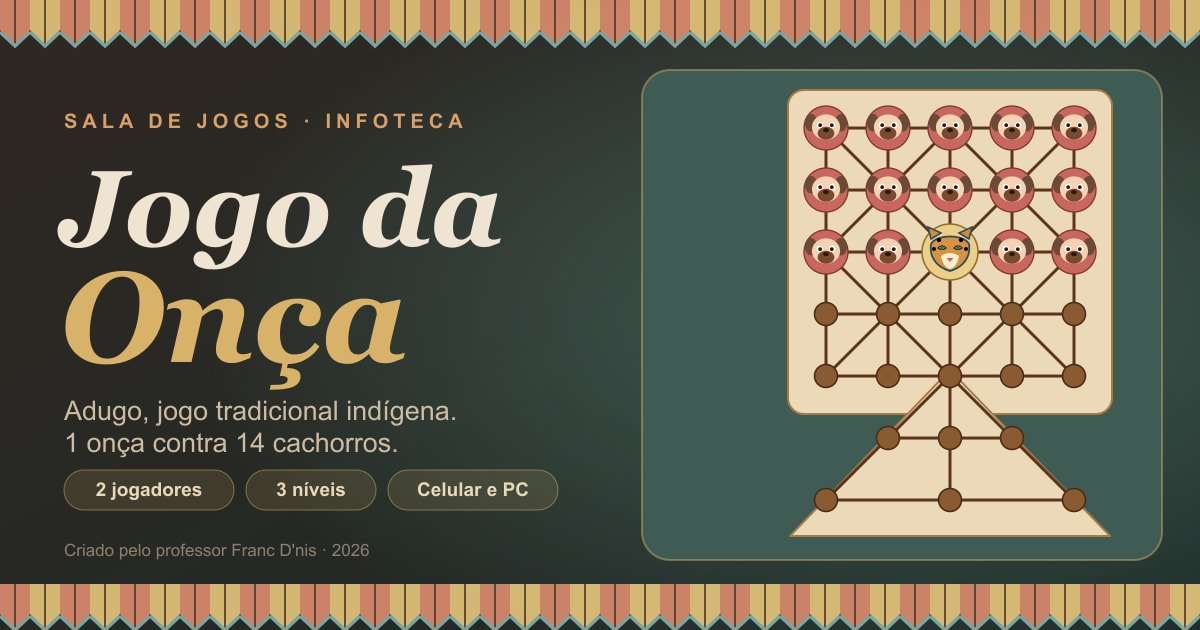
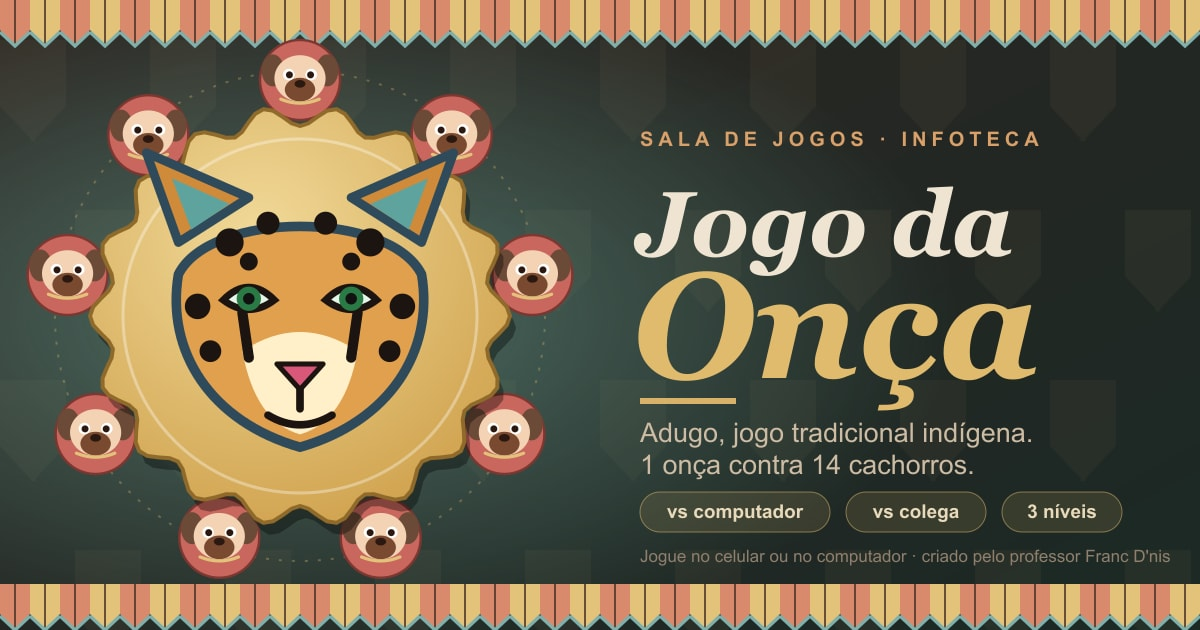
Jogo da Onça: nova arte exclusiva de compartilhamento

diff --git a/src/lib/compartilhar.ts b/src/lib/compartilhar.ts
@@ -11,7 +11,7 @@
  * que rodar o script e a arte mudar.
  */
 
-export const VERSAO_ARTE = 2;
+export const VERSAO_ARTE = 3;
 
 type Meta = Record<string, string>;
 
